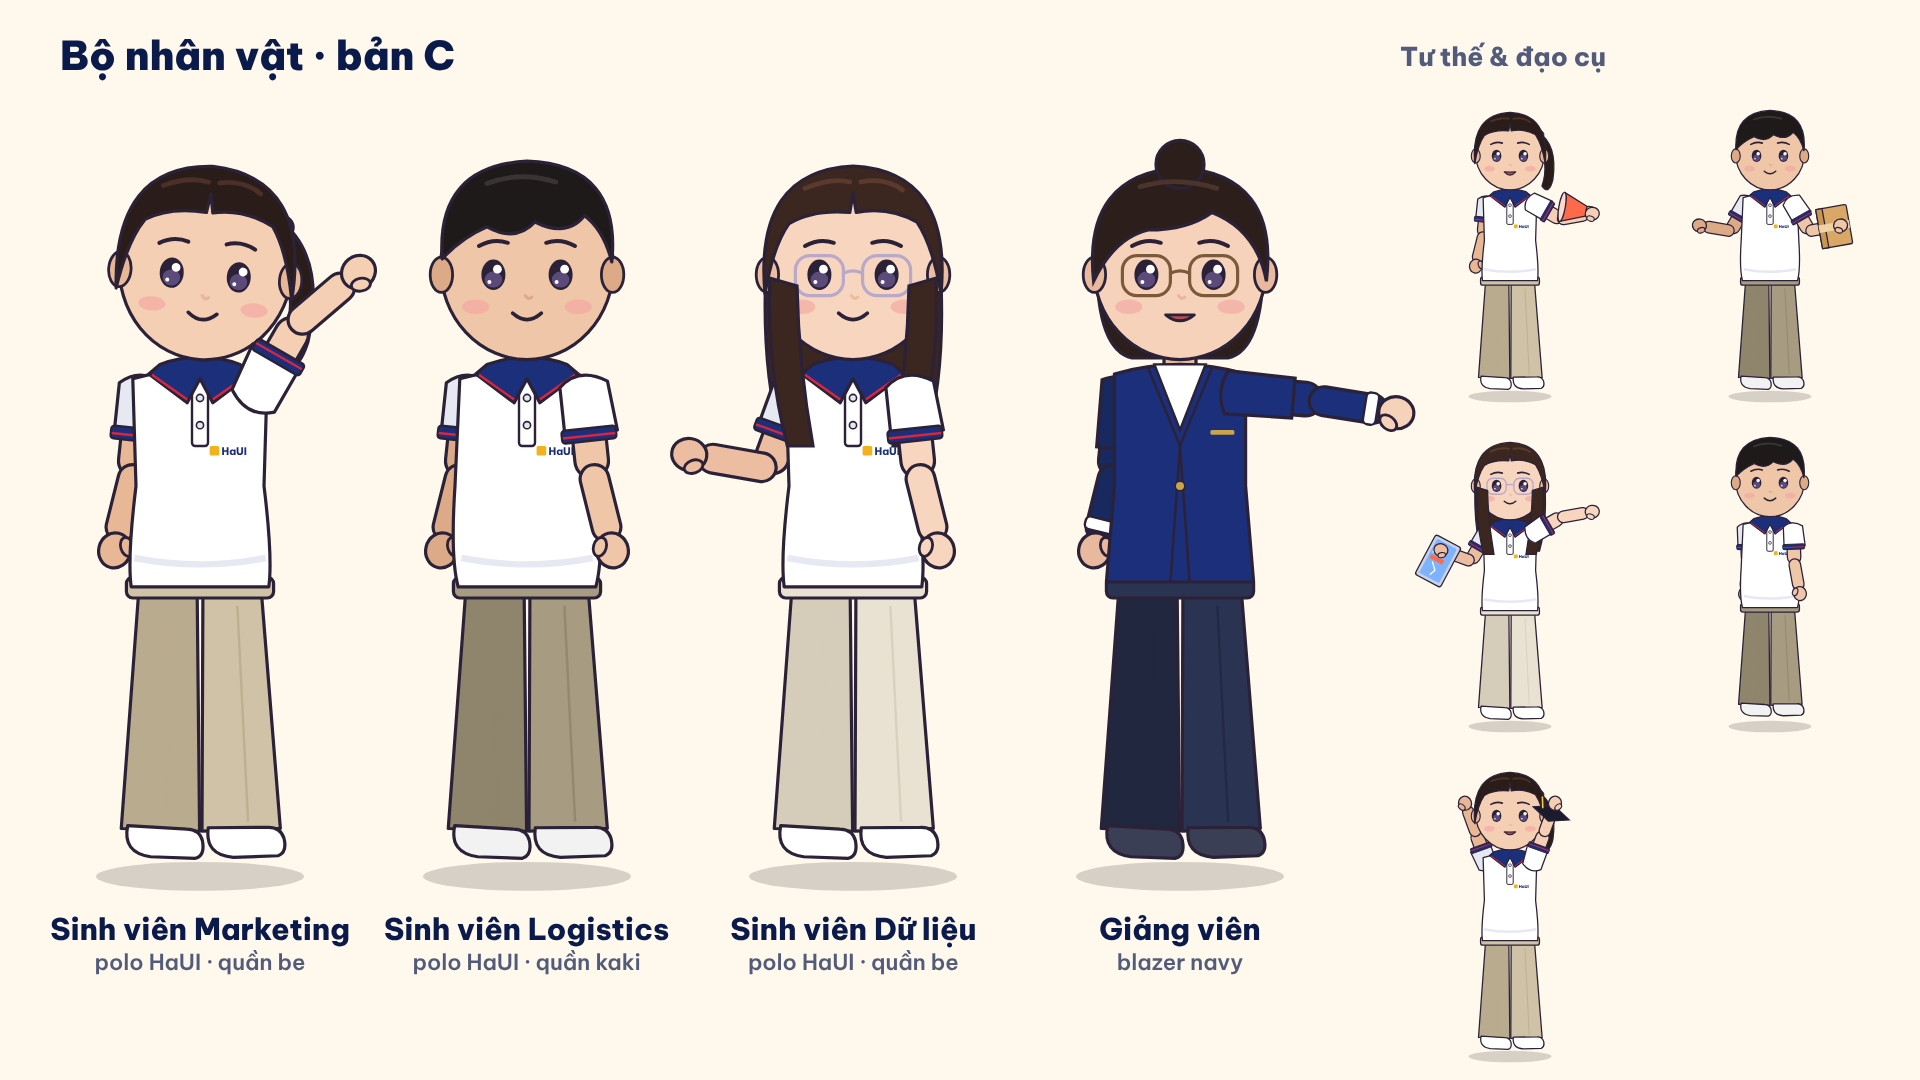
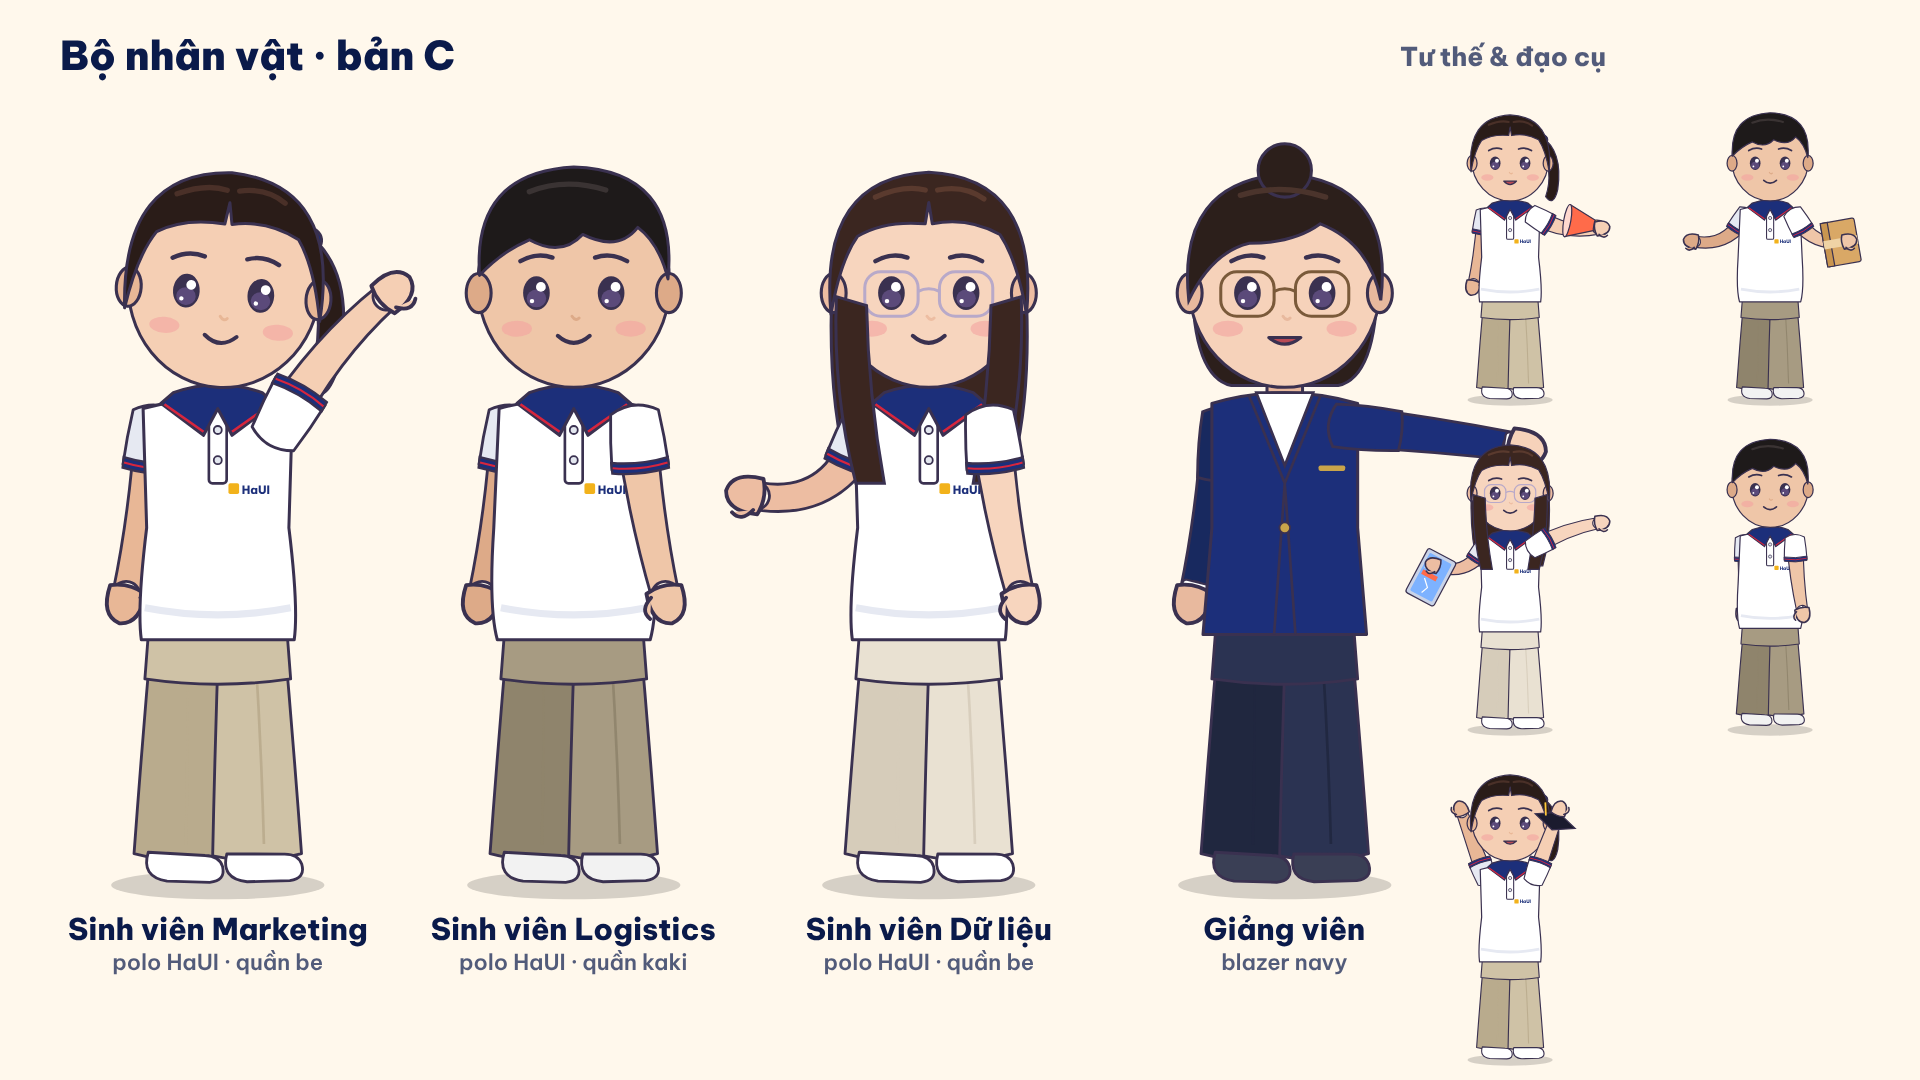
Smooth character limbs: continuous tapered arms, thumbs, softer trousers
Claude-Session: https://claude.ai/code/session_01RmDDbKnNs7pgAuggqWM7T5

Changed region(s): [[0.0312, 0.0917, 0.8438, 1.0], [0.875, 0.0917, 0.9688, 0.6111], [0.9062, 0.6417, 0.9375, 0.6722]]

diff --git a/kds-video/remotion/Cast.tsx b/kds-video/remotion/Cast.tsx
@@ -24,7 +24,7 @@ export type PersonPose = {
 };
 export type Prop = "laptop" | "megaphone" | "box" | "tablet" | "cap" | "phone" | "none";
 
-const INK = "#2B2238";
+const INK = "#3A3150";
 const NAVY = "#1C2F7A";
 const RED = "#D7263D";
 const WHITE = "#FFFFFF";
@@ -38,36 +38,72 @@ const PAL: Record<Variant, { skin: string; skinSh: string; hair: string; hairHi:
 };
 
 // ---------------------------------------------------------------------------
-const Arm: React.FC<{ x: number; y: number; s: number; e: number; side: 1 | -1; skin: string; skinSh: string; top: "polo" | "blazer"; hold?: Prop; back?: boolean }> = ({ x, y, s, e, side, skin, skinSh, top, hold, back }) => {
-  // side: +1 = arm on the viewer's right. Outward rotation = -side*angle
-  const a1 = -side * s;
-  const a2 = -side * e;
-  const skinC = back ? skinSh : skin;
-  const sleeve = top === "polo" ? (back ? SHADE : WHITE) : back ? "#18295F" : NAVY;
+const rot = (x: number, y: number, deg: number): [number, number] => {
+  const r = (deg * Math.PI) / 180;
+  return [x * Math.cos(r) - y * Math.sin(r), x * Math.sin(r) + y * Math.cos(r)];
+};
+
+/** Smooth tapered limb through shoulder -> elbow -> wrist (one continuous outline). */
+const tube = (pts: [number, number][], ws: number[]) => {
+  const n = pts.length;
+  const norms = pts.map((p, i) => {
+    const a = pts[Math.max(0, i - 1)];
+    const b = pts[Math.min(n - 1, i + 1)];
+    const dx = b[0] - a[0];
+    const dy = b[1] - a[1];
+    const l = Math.hypot(dx, dy) || 1;
+    return [-dy / l, dx / l];
+  });
+  const L = pts.map((p, i) => [p[0] + norms[i][0] * ws[i], p[1] + norms[i][1] * ws[i]]);
+  const R = pts.map((p, i) => [p[0] - norms[i][0] * ws[i], p[1] - norms[i][1] * ws[i]]);
+  const f = (q: number[]) => `${q[0].toFixed(1)} ${q[1].toFixed(1)}`;
   return (
-    <g transform={`translate(${x} ${y}) rotate(${a1})`}>
-      {/* upper arm */}
-      <rect x={-21} y={-6} width={42} height={112} rx={21} fill={top === "polo" ? skinC : sleeve} stroke={INK} strokeWidth={4} />
-      {/* forearm + hand */}
-      <g transform={`translate(0 100) rotate(${a2})`}>
-        <rect x={-18} y={-10} width={36} height={98} rx={18} fill={top === "polo" ? skinC : sleeve} stroke={INK} strokeWidth={4} />
-        {top === "blazer" ? <rect x={-20} y={60} width={40} height={16} rx={6} fill={WHITE} stroke={INK} strokeWidth={3} /> : null}
-        <g transform="translate(0 92)">
-          <HoldProp prop={hold} side={side} />
-          <ellipse cx={0} cy={8} rx={20} ry={22} fill={skinC} stroke={INK} strokeWidth={4} />
-          <ellipse cx={side * -14} cy={0} rx={8} ry={12} fill={skinC} stroke={INK} strokeWidth={3.5} transform={`rotate(${side * 30} ${side * -14} 0)`} />
-        </g>
+    `M${f(L[0])} Q${f(L[1])} ${f(L[2])} ` +
+    `A${ws[2]} ${ws[2]} 0 0 ${1} ${f(R[2])} ` +
+    `Q${f(R[1])} ${f(R[0])} ` +
+    `A${ws[0]} ${ws[0]} 0 0 1 ${f(L[0])} Z`
+  );
+};
+
+const Hand: React.FC<{ skin: string; side: 1 | -1 }> = ({ skin, side }) => (
+  <g>
+    <path d="M-15 -4 Q-17 22 0 25 Q17 22 15 -4 Q0 -10 -15 -4 Z" fill={skin} stroke={INK} strokeWidth={3.2} strokeLinejoin="round" />
+    <path d={`M${side * -12} 0 Q${side * -24} 8 ${side * -17} 17`} fill={skin} stroke={INK} strokeWidth={3.2} strokeLinecap="round" />
+  </g>
+);
+
+const Arm: React.FC<{ x: number; y: number; s: number; e: number; side: 1 | -1; skin: string; skinSh: string; top: "polo" | "blazer"; hold?: Prop; back?: boolean }> = ({ x, y, s, e, side, skin, skinSh, top, hold, back }) => {
+  const a1 = -side * s;
+  const a2 = a1 - side * e;
+  const L1 = 100;
+  const L2 = 92;
+  const [ex, ey] = rot(0, L1, a1);
+  const [wx, wy] = rot(0, L2, a2);
+  const S: [number, number] = [0, 0];
+  const E: [number, number] = [ex, ey];
+  const Wr: [number, number] = [ex + wx, ey + wy];
+  const skinC = back ? skinSh : skin;
+  const sleeveC = top === "polo" ? (back ? SHADE : WHITE) : back ? "#18295F" : NAVY;
+  const limbC = top === "polo" ? skinC : sleeveC;
+  return (
+    <g transform={`translate(${x} ${y})`}>
+      <path d={tube([S, E, Wr], [23, 19, 15.5])} fill={limbC} stroke={INK} strokeWidth={3.2} strokeLinejoin="round" />
+      <g transform={`translate(${Wr[0]} ${Wr[1]}) rotate(${a2})`}>
+        <HoldProp prop={hold} side={side} />
+        {top === "blazer" ? <rect x={-15} y={-14} width={30} height={10} rx={4} fill={WHITE} stroke={INK} strokeWidth={2.5} /> : null}
+        <g transform="scale(1.35)"><Hand skin={skinC} side={side} /></g>
       </g>
-      {/* short polo sleeve over the upper arm: navy cuff + red tipping */}
-      {top === "polo" ? (
-        <g>
-          <path d="M-30 -10 Q-4 -34 30 -12 L36 50 L-30 50 Z" fill={sleeve} stroke={INK} strokeWidth={4} strokeLinejoin="round" />
-          <rect x={-34} y={44} width={68} height={16} rx={4} fill={NAVY} stroke={INK} strokeWidth={3} />
-          <rect x={-33} y={52} width={66} height={3} fill={RED} />
-        </g>
-      ) : (
-        <path d="M-27 -14 Q0 -28 27 -14 L25 70 L-25 70 Z" fill={sleeve} stroke={INK} strokeWidth={4} />
-      )}
+      <g transform={`rotate(${a1})`}>
+        {top === "polo" ? (
+          <g>
+            <path d="M-27 -16 Q0 -32 27 -16 Q31 16 32 46 Q0 52 -32 46 Q-31 16 -27 -16 Z" fill={sleeveC} stroke={INK} strokeWidth={3.2} strokeLinejoin="round" />
+            <path d="M-32 38 Q0 44 32 38 L32 50 Q0 56 -32 50 Z" fill={NAVY} stroke={INK} strokeWidth={2.6} />
+            <path d="M-31 44 Q0 50 31 44" stroke={RED} strokeWidth={2.4} fill="none" />
+          </g>
+        ) : (
+          <path d="M-24 -14 Q0 -28 24 -14 Q26 20 22 60 Q0 64 -22 60 Q-26 20 -24 -14 Z" fill={sleeveC} stroke={INK} strokeWidth={3.2} />
+        )}
+      </g>
     </g>
   );
 };
@@ -77,34 +113,34 @@ const HoldProp: React.FC<{ prop?: Prop; side: 1 | -1 }> = ({ prop, side }) => {
   if (prop === "laptop")
     return (
       <g transform={`translate(${side * -40} -30) rotate(${side * -8})`}>
-        <rect x={-70} y={-10} width={140} height={90} rx={8} fill="#C9D3E8" stroke={INK} strokeWidth={4} />
+        <rect x={-70} y={-10} width={140} height={90} rx={8} fill="#C9D3E8" stroke={INK} strokeWidth={3.4} />
         <rect x={-60} y={0} width={120} height={70} rx={4} fill="#7DB2FF" />
         <rect x={-50} y={44} width={14} height={20} fill="#FFC93C" />
         <rect x={-30} y={30} width={14} height={34} fill="#FFFFFF" />
         <rect x={-10} y={18} width={14} height={46} fill="#FF6B4A" />
-        <path d="M10 50 L30 30 L50 38" stroke="#FFFFFF" strokeWidth={4} fill="none" />
+        <path d="M10 50 L30 30 L50 38" stroke="#FFFFFF" strokeWidth={3.4} fill="none" />
       </g>
     );
   if (prop === "megaphone")
     return (
       <g transform={`translate(${side * 10} -6) rotate(${side * -70})`}>
-        <path d="M0 -14 L80 -46 L80 46 L0 14 Z" fill="#FF6B4A" stroke={INK} strokeWidth={4} strokeLinejoin="round" />
-        <rect x={-18} y={-16} width={22} height={32} rx={6} fill="#FFC93C" stroke={INK} strokeWidth={4} />
-        <ellipse cx={80} cy={0} rx={10} ry={46} fill="#FFD9CF" stroke={INK} strokeWidth={4} />
+        <path d="M0 -14 L80 -46 L80 46 L0 14 Z" fill="#FF6B4A" stroke={INK} strokeWidth={3.4} strokeLinejoin="round" />
+        <rect x={-18} y={-16} width={22} height={32} rx={6} fill="#FFC93C" stroke={INK} strokeWidth={3.4} />
+        <ellipse cx={80} cy={0} rx={10} ry={46} fill="#FFD9CF" stroke={INK} strokeWidth={3.4} />
       </g>
     );
   if (prop === "box")
     return (
       <g transform="translate(0 -40)">
-        <rect x={-62} y={-20} width={124} height={96} rx={6} fill="#D9A866" stroke={INK} strokeWidth={4} />
-        <rect x={-62} y={-20} width={124} height={20} fill="#C99550" stroke={INK} strokeWidth={4} />
+        <rect x={-62} y={-20} width={124} height={96} rx={6} fill="#D9A866" stroke={INK} strokeWidth={3.4} />
+        <rect x={-62} y={-20} width={124} height={20} fill="#C99550" stroke={INK} strokeWidth={3.4} />
         <rect x={-12} y={-20} width={24} height={96} fill="#EFD3A5" />
       </g>
     );
   if (prop === "tablet")
     return (
       <g transform={`translate(${side * -30} -40) rotate(${side * -10})`}>
-        <rect x={-46} y={-20} width={92} height={124} rx={10} fill={NAVY} stroke={INK} strokeWidth={4} />
+        <rect x={-46} y={-20} width={92} height={124} rx={10} fill={NAVY} stroke={INK} strokeWidth={3.4} />
         <rect x={-38} y={-12} width={76} height={104} rx={5} fill="#7DB2FF" />
         <rect x={-28} y={48} width={12} height={34} fill="#FFC93C" />
         <rect x={-10} y={30} width={12} height={52} fill="#FFFFFF" />
@@ -116,7 +152,7 @@ const HoldProp: React.FC<{ prop?: Prop; side: 1 | -1 }> = ({ prop, side }) => {
   if (prop === "cap")
     return (
       <g transform="translate(0 -26)">
-        <path d="M-60 0 L0 -26 L60 0 L0 26 Z" fill="#1B1B2E" stroke={INK} strokeWidth={4} />
+        <path d="M-60 0 L0 -26 L60 0 L0 26 Z" fill="#1B1B2E" stroke={INK} strokeWidth={3.4} />
         <path d="M30 6 L44 40" stroke="#FFC93C" strokeWidth={5} />
       </g>
     );
@@ -125,27 +161,27 @@ const HoldProp: React.FC<{ prop?: Prop; side: 1 | -1 }> = ({ prop, side }) => {
 
 const Leg: React.FC<{ x: number; y: number; a: number; c: string; cs: string; shoe: string; front?: boolean }> = ({ x, y, a, c, cs, shoe, front }) => (
   <g transform={`translate(${x} ${y}) rotate(${a})`}>
-    {/* wide-leg trouser */}
-    <path d="M-36 -10 L36 -10 L50 300 L-48 300 Z" fill={front ? c : cs} stroke={INK} strokeWidth={4} strokeLinejoin="round" />
-    <path d="M6 20 L10 290" stroke={cs} strokeWidth={3} opacity={0.8} />
-    {/* shoe */}
-    <path d="M-40 296 Q-46 330 -10 334 L46 334 Q58 330 54 312 Q50 298 34 298 Z" fill={shoe} stroke={INK} strokeWidth={4} strokeLinejoin="round" />
+    {/* wide-leg trouser with soft sides */}
+    <path d="M-36 -20 Q-44 110 -50 238 Q0 250 50 238 Q44 110 36 -20 Z" fill={front ? c : cs} stroke={INK} strokeWidth={3.2} strokeLinejoin="round" />
+    <path d="M4 10 Q8 120 8 226" stroke={cs} strokeWidth={3} fill="none" opacity={0.9} />
+    {/* rounded sneaker peeking out under the hem */}
+    <path d="M-34 236 Q-42 264 -12 268 L36 268 Q54 266 50 250 Q46 238 30 238 Z" fill={shoe} stroke={INK} strokeWidth={3.2} strokeLinejoin="round" />
   </g>
 );
 
 // ---------------------------------------------------------------------------
 const HairBack: React.FC<{ v: Variant; c: string; sway: number }> = ({ v, c, sway }) => {
   if (v === "longHair")
-    return <path d={`M92 180 Q84 320 ${110 + sway} 410 L${292 + sway} 410 Q318 320 308 180 Z`} fill={c} stroke={INK} strokeWidth={4} />;
+    return <path d={`M92 180 Q84 320 ${110 + sway} 410 L${292 + sway} 410 Q318 320 308 180 Z`} fill={c} stroke={INK} strokeWidth={3.4} />;
   if (v === "ponytail")
     return (
       <g>
-        <path d={`M286 130 Q350 ${170 + sway} 334 ${280 + sway * 2} Q322 330 300 300 Q324 230 286 160 Z`} fill={c} stroke={INK} strokeWidth={4} />
+        <path d={`M286 130 Q350 ${170 + sway} 334 ${280 + sway * 2} Q322 330 300 300 Q324 230 286 160 Z`} fill={c} stroke={INK} strokeWidth={3.4} />
         <circle cx={292} cy={140} r={14} fill="#1C2F7A" stroke={INK} strokeWidth={3} />
       </g>
     );
   if (v === "teacher")
-    return <path d="M96 190 Q96 300 140 310 L260 310 Q304 300 304 190 Z" fill={c} stroke={INK} strokeWidth={4} />;
+    return <path d="M96 190 Q96 300 140 310 L260 310 Q304 300 304 190 Z" fill={c} stroke={INK} strokeWidth={3.4} />;
   return null;
 };
 
@@ -153,22 +189,22 @@ const HairFront: React.FC<{ v: Variant; c: string; hi: string }> = ({ v, c, hi }
   if (v === "boy")
     return (
       <g>
-        <path d="M94 186 Q86 70 200 64 Q318 68 306 190 Q296 150 272 132 Q250 160 210 140 Q186 166 150 146 Q118 160 94 186 Z" fill={c} stroke={INK} strokeWidth={4} strokeLinejoin="round" />
+        <path d="M94 186 Q86 70 200 64 Q318 68 306 190 Q296 150 272 132 Q250 160 210 140 Q186 166 150 146 Q118 160 94 186 Z" fill={c} stroke={INK} strokeWidth={3.4} strokeLinejoin="round" />
         <path d="M150 92 Q190 76 236 90" stroke={hi} strokeWidth={6} fill="none" strokeLinecap="round" />
       </g>
     );
   if (v === "teacher")
     return (
       <g>
-        <path d="M92 214 Q78 80 200 72 Q324 80 308 214 Q296 150 240 128 Q210 150 160 150 Q118 160 92 214 Z" fill={c} stroke={INK} strokeWidth={4} />
-        <circle cx={200} cy={68} r={30} fill={c} stroke={INK} strokeWidth={4} />
+        <path d="M92 214 Q78 80 200 72 Q324 80 308 214 Q296 150 240 128 Q210 150 160 150 Q118 160 92 214 Z" fill={c} stroke={INK} strokeWidth={3.4} />
+        <circle cx={200} cy={68} r={30} fill={c} stroke={INK} strokeWidth={3.4} />
         <path d="M150 96 Q196 82 246 98" stroke={hi} strokeWidth={6} fill="none" strokeLinecap="round" />
       </g>
     );
   // girls: straight fringe with centre part
   return (
     <g>
-      <path d="M90 230 Q76 76 200 70 Q324 76 310 230 Q300 170 280 140 Q244 120 204 128 L200 104 L196 128 Q150 124 120 142 Q100 170 90 230 Z" fill={c} stroke={INK} strokeWidth={4} strokeLinejoin="round" />
+      <path d="M90 230 Q76 76 200 70 Q324 76 310 230 Q300 170 280 140 Q244 120 204 128 L200 104 L196 128 Q150 124 120 142 Q100 170 90 230 Z" fill={c} stroke={INK} strokeWidth={3.4} strokeLinejoin="round" />
       <path d="M140 98 Q172 84 196 90" stroke={hi} strokeWidth={6} fill="none" strokeLinecap="round" />
       <path d="M210 90 Q240 84 262 100" stroke={hi} strokeWidth={6} fill="none" strokeLinecap="round" />
     </g>
@@ -182,7 +218,7 @@ const Face: React.FC<{ v: Variant; skin: string; skinSh: string; pose: PersonPos
   const glasses = v === "teacher" || v === "longHair";
   return (
     <g>
-      <ellipse cx={200} cy={196} rx={108} ry={116} fill={skin} stroke={INK} strokeWidth={4} />
+      <ellipse cx={200} cy={196} rx={108} ry={116} fill={skin} stroke={INK} strokeWidth={3.4} />
       <ellipse cx={93} cy={206} rx={14} ry={22} fill={skinSh} stroke={INK} strokeWidth={3.5} />
       <ellipse cx={307} cy={206} rx={14} ry={22} fill={skinSh} stroke={INK} strokeWidth={3.5} />
       {/* brows */}
@@ -207,14 +243,14 @@ const Face: React.FC<{ v: Variant; skin: string; skinSh: string; pose: PersonPos
         </>
       )}
       {glasses ? (
-        <g fill="none" stroke={v === "teacher" ? "#7A5A3A" : "#B8A9C9"} strokeWidth={4}>
+        <g fill="none" stroke={v === "teacher" ? "#7A5A3A" : "#B8A9C9"} strokeWidth={3.4}>
           <rect x={128} y={182} width={60} height={50} rx={18} />
           <rect x={212} y={182} width={60} height={50} rx={18} />
           <path d="M188 204 Q200 198 212 204" />
         </g>
       ) : null}
       {/* nose + cheeks */}
-      <path d="M198 232 Q202 238 206 234" stroke={skinSh} strokeWidth={4} fill="none" strokeLinecap="round" />
+      <path d="M198 232 Q202 238 206 234" stroke={skinSh} strokeWidth={3.4} fill="none" strokeLinecap="round" />
       <ellipse cx={136} cy={246} rx={17} ry={9} fill="#F4A3A0" opacity={0.6} />
       <ellipse cx={264} cy={246} rx={17} ry={9} fill="#F4A3A0" opacity={0.6} />
       {/* mouth */}
@@ -232,7 +268,7 @@ const Torso: React.FC<{ top: "polo" | "blazer"; female: boolean }> = ({ top, fem
   if (top === "blazer")
     return (
       <g>
-        <path d={`M118 330 Q200 306 282 330 L${292 - waist} 470 L292 590 L108 590 L${108 + waist} 470 Z`} fill={NAVY} stroke={INK} strokeWidth={4} strokeLinejoin="round" />
+        <path d={`M118 330 Q200 306 282 330 L${292 - waist} 470 L292 590 L108 590 L${108 + waist} 470 Z`} fill={NAVY} stroke={INK} strokeWidth={3.4} strokeLinejoin="round" />
         <path d="M168 318 L200 400 L232 318 Z" fill={WHITE} stroke={INK} strokeWidth={3} />
         <path d="M160 322 L200 420 L188 590 M240 322 L200 420 L212 590" stroke={INK} strokeWidth={3} fill="none" />
         <circle cx={200} cy={470} r={6} fill="#C9A44A" stroke={INK} strokeWidth={2} />
@@ -242,14 +278,14 @@ const Torso: React.FC<{ top: "polo" | "blazer"; female: boolean }> = ({ top, fem
   return (
     <g>
       {/* white polo body */}
-      <path d={`M116 336 Q200 312 284 336 L${290 - waist} 470 Q${296 - waist / 2} 560 286 596 L114 596 Q${104 + waist / 2} 560 ${110 + waist} 470 Z`} fill={WHITE} stroke={INK} strokeWidth={4} strokeLinejoin="round" />
+      <path d={`M116 336 Q200 312 284 336 L${290 - waist} 470 Q${296 - waist / 2} 560 286 596 L114 596 Q${104 + waist / 2} 560 ${110 + waist} 470 Z`} fill={WHITE} stroke={INK} strokeWidth={3.4} strokeLinejoin="round" />
       <path d="M118 560 Q200 576 282 560" stroke={SHADE} strokeWidth={8} fill="none" />
       {/* placket + buttons */}
       <rect x={190} y={330} width={20} height={90} rx={4} fill={WHITE} stroke={INK} strokeWidth={3} />
       <circle cx={200} cy={360} r={4.5} fill="#E3E7EF" stroke={INK} strokeWidth={2} />
       <circle cx={200} cy={394} r={4.5} fill="#E3E7EF" stroke={INK} strokeWidth={2} />
       {/* navy collar with red tipping */}
-      <path d="M150 318 Q200 300 250 318 L264 330 L216 366 L200 336 L184 366 L136 330 Z" fill={NAVY} stroke={INK} strokeWidth={4} strokeLinejoin="round" />
+      <path d="M150 318 Q200 300 250 318 L264 330 L216 366 L200 336 L184 366 L136 330 Z" fill={NAVY} stroke={INK} strokeWidth={3.4} strokeLinejoin="round" />
       <path d="M140 331 L184 362 M260 331 L216 362" stroke={RED} strokeWidth={3} />
       {/* HaUI badge on the left chest (viewer's right) */}
       <g transform="translate(212 420)">
@@ -273,31 +309,31 @@ export const Person: React.FC<{ v: Variant; pose?: PersonPose; height?: number; 
   const lE = pose.lE ?? 8;
   const tilt = pose.tilt ?? 0;
   return (
-    <svg viewBox="0 0 400 1000" width={height * 0.4} height={height} style={{ overflow: "visible", transform: flip ? "scaleX(-1)" : undefined }}>
-      <ellipse cx={200} cy={958} rx={130} ry={18} fill="rgba(0,0,0,0.16)" />
+    <svg viewBox="0 0 400 900" width={(height * 400) / 900} height={height} style={{ overflow: "visible", transform: flip ? "scaleX(-1)" : undefined }}>
+      <ellipse cx={200} cy={872} rx={120} ry={16} fill="rgba(0,0,0,0.16)" />
       <g transform={`translate(0 ${bob})`}>
         <g transform={`rotate(${tilt} 200 300)`}>
           <HairBack v={v} c={p.hair} sway={sw * 6} />
         </g>
-        <Arm x={128} y={354} s={lS} e={lE} side={-1} skin={p.skin} skinSh={p.skinSh} top={p.top} hold={pose.lHold} back />
-        <Leg x={160} y={600} a={w === undefined ? 2 : 14 * sw} c={p.pants} cs={p.pantsSh} shoe={p.shoe} />
-        <Leg x={240} y={600} a={w === undefined ? -2 : -14 * sw} c={p.pants} cs={p.pantsSh} shoe={p.shoe} front />
-        {/* waistband */}
-        <rect x={108} y={584} width={184} height={26} rx={8} fill={p.pants} stroke={INK} strokeWidth={4} />
+        <Arm x={130} y={356} s={lS} e={lE} side={-1} skin={p.skin} skinSh={p.skinSh} top={p.top} hold={pose.lHold} back />
+        <Leg x={162} y={600} a={w === undefined ? 1.5 : 12 * sw} c={p.pants} cs={p.pantsSh} shoe={p.shoe} />
+        <Leg x={238} y={600} a={w === undefined ? -1.5 : -12 * sw} c={p.pants} cs={p.pantsSh} shoe={p.shoe} front />
+        {/* hips: straight block under the polo hem, hides where the legs meet */}
+        <path d="M122 588 L278 588 L282 640 Q200 652 118 640 Z" fill={p.pants} stroke={INK} strokeWidth={3.2} strokeLinejoin="round" />
         {/* neck */}
-        <rect x={180} y={286} width={40} height={50} rx={14} fill={p.skinSh} stroke={INK} strokeWidth={4} />
+        <rect x={180} y={286} width={40} height={50} rx={14} fill={p.skinSh} stroke={INK} strokeWidth={3.4} />
         <Torso top={p.top} female={female} />
         <g transform={`rotate(${tilt} 200 300)`}>
           <Face v={v} skin={p.skin} skinSh={p.skinSh} pose={pose} />
           <HairFront v={v} c={p.hair} hi={p.hairHi} />
           {v === "longHair" ? (
             <g>
-              <path d={`M96 210 Q92 320 ${118 + sw * 4} 420 L150 420 Q132 320 130 220 Z`} fill={p.hair} stroke={INK} strokeWidth={4} />
-              <path d={`M304 210 Q308 320 ${282 + sw * 4} 420 L250 420 Q268 320 270 220 Z`} fill={p.hair} stroke={INK} strokeWidth={4} />
+              <path d={`M96 210 Q92 320 ${118 + sw * 4} 420 L150 420 Q132 320 130 220 Z`} fill={p.hair} stroke={INK} strokeWidth={3.4} />
+              <path d={`M304 210 Q308 320 ${282 + sw * 4} 420 L250 420 Q268 320 270 220 Z`} fill={p.hair} stroke={INK} strokeWidth={3.4} />
             </g>
           ) : null}
         </g>
-        <Arm x={272} y={354} s={rS} e={rE} side={1} skin={p.skin} skinSh={p.skinSh} top={p.top} hold={pose.rHold} />
+        <Arm x={270} y={356} s={rS} e={rE} side={1} skin={p.skin} skinSh={p.skinSh} top={p.top} hold={pose.rHold} />
       </g>
     </svg>
   );
